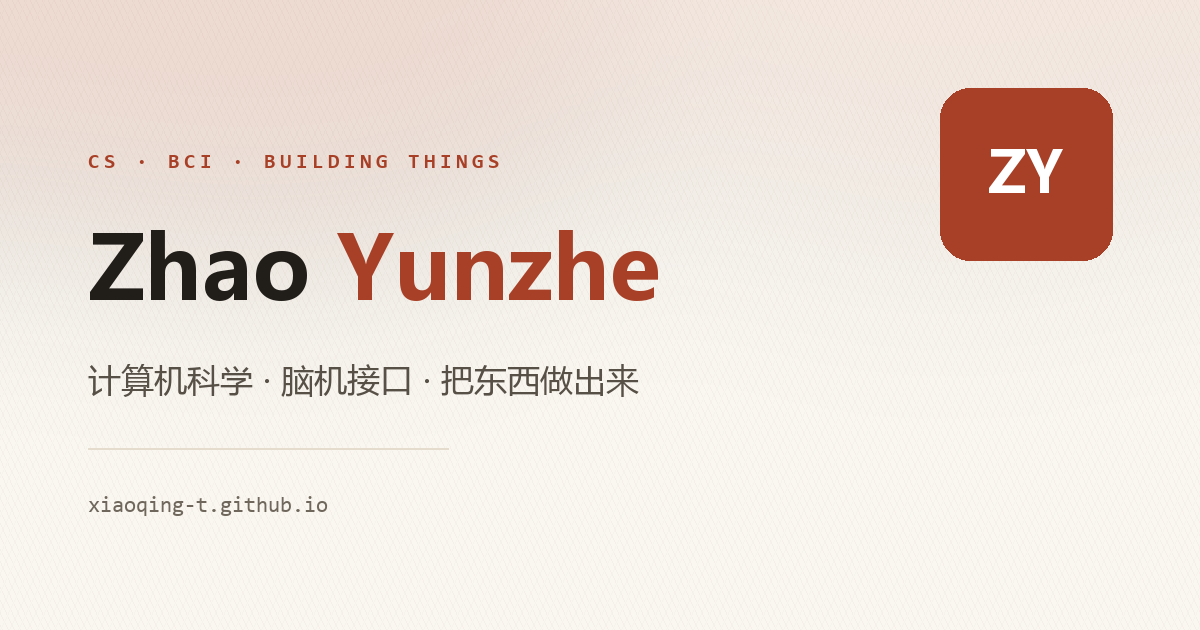
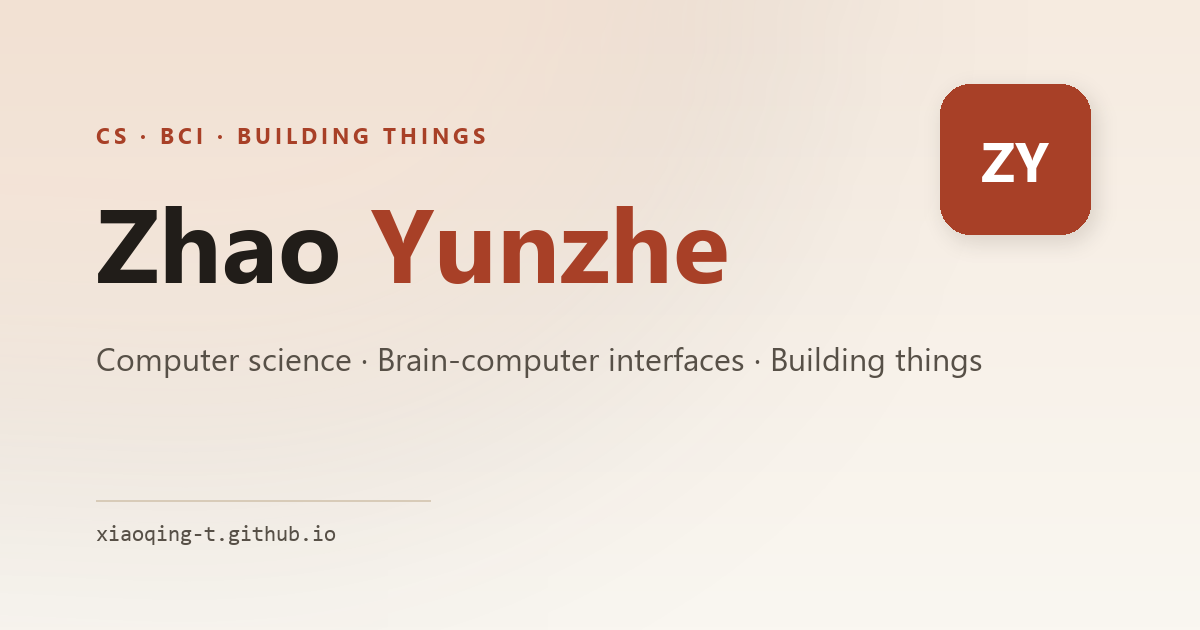
feat: 重做分享卡并为每篇笔记生成 OG 图

diff --git a/index.html b/index.html
@@ -40,7 +40,7 @@
     <meta property="og:image:height" content="630" />
     <meta
       property="og:image:alt"
-      content="Zhao Yunzhe — 计算机科学 · 脑机接口 · 把东西做出来"
+      content="Zhao Yunzhe — Computer science · Brain-computer interfaces · Building things"
     />
     <meta name="twitter:card" content="summary_large_image" />
     <meta name="twitter:title" content="Zhao Yunzhe · 个人主页" />

diff --git a/scripts/make-og.py b/scripts/make-og.py
@@ -1,0 +1,231 @@
+"""Generate the homepage and per-note Open Graph cards (1200x630).
+
+Usage: python scripts/make-og.py
+Requires Pillow. Outputs public/og-image.png and public/og/note-*.png.
+"""
+
+import json
+import re
+from pathlib import Path
+
+from PIL import Image, ImageDraw, ImageFilter, ImageFont, ImageOps
+
+ROOT = Path(__file__).resolve().parent.parent
+PUBLIC = ROOT / "public"
+NOTES = PUBLIC / "notes.json"
+
+W, H = 1200, 630
+INK = (33, 29, 25)
+RUST = (168, 64, 39)
+SOFT = (87, 80, 71)
+LINE = (216, 203, 184)
+WHITE = (255, 255, 255)
+
+FONT_DIR = Path("C:/Windows/Fonts")
+SEGOE = FONT_DIR / "segoeui.ttf"
+SEGOE_BOLD = FONT_DIR / "segoeuib.ttf"
+CONSOLAS = FONT_DIR / "consola.ttf"
+CJK_BOLD = FONT_DIR / "msyhbd.ttc"
+
+BOOK_LABELS = {
+    "engineering": "ENGINEERING",
+    "virtualization": "SYSTEM VIRTUALIZATION",
+    "ml": "MACHINE LEARNING",
+    "nlp": "NATURAL LANGUAGE PROCESSING",
+    "theory": "COMPUTING THEORY",
+}
+
+CLOSING = set("，。：、；！？）」』】%")
+OPENING = set("（「『【")
+TOKEN = re.compile(r"[A-Za-z0-9][A-Za-z0-9./+:_-]*|\s+|.", re.S)
+
+
+def font(path, size, index=0):
+    return ImageFont.truetype(str(path), size, index=index)
+
+
+def make_background():
+    gradient = Image.linear_gradient("L").resize((W, H))
+    bg = ImageOps.colorize(gradient, black=(246, 235, 224), white=(250, 247, 241))
+
+    glow = Image.new("RGBA", (W, H), (0, 0, 0, 0))
+    gd = ImageDraw.Draw(glow)
+    gd.ellipse((-350, -420, 760, 480), fill=(214, 150, 115, 30))
+    glow = glow.filter(ImageFilter.GaussianBlur(130))
+    bg = Image.alpha_composite(bg.convert("RGBA"), glow)
+    return bg
+
+
+def draw_tracked(draw, xy, text, fnt, fill, tracking=4):
+    x, y = xy
+    for ch in text:
+        draw.text((x, y), ch, font=fnt, fill=fill)
+        x += draw.textlength(ch, font=fnt) + tracking
+
+
+def draw_mark(img, x, y, size, font_size):
+    shadow = Image.new("RGBA", img.size, (0, 0, 0, 0))
+    sd = ImageDraw.Draw(shadow)
+    sd.rounded_rectangle(
+        (x + 5, y + 7, x + size + 5, y + size + 7),
+        radius=int(size * 0.2),
+        fill=(80, 60, 40, 38),
+    )
+    shadow = shadow.filter(ImageFilter.GaussianBlur(10))
+    img.alpha_composite(shadow)
+
+    draw = ImageDraw.Draw(img)
+    draw.rounded_rectangle(
+        (x, y, x + size, y + size),
+        radius=int(size * 0.2),
+        fill=RUST,
+    )
+    draw.text(
+        (x + size / 2, y + size / 2),
+        "ZY",
+        font=font(SEGOE_BOLD, font_size),
+        fill=WHITE,
+        anchor="mm",
+    )
+
+
+def wrap(text, fnt, max_width, draw):
+    tokens = TOKEN.findall(text)
+    lines = []
+    line = ""
+    for token in tokens:
+        if token.isspace():
+            if line and not line.endswith(" "):
+                line += " "
+            continue
+
+        candidate = line + token
+        if not line.strip() or draw.textlength(candidate.rstrip(), font=fnt) <= max_width:
+            line = candidate
+            continue
+
+        if token in CLOSING:
+            line = candidate
+            lines.append(line.rstrip())
+            line = ""
+            continue
+
+        trimmed = line.rstrip()
+        while trimmed and trimmed[-1] in OPENING:
+            token = trimmed[-1] + token
+            trimmed = trimmed[:-1]
+        lines.append(trimmed)
+        line = token
+
+    if line.strip():
+        lines.append(line.rstrip())
+    return [item.strip() for item in lines if item.strip()]
+
+
+def wrap_balanced(text, fnt, max_width, draw):
+    lines = wrap(text, fnt, max_width, draw)
+    target = len(lines)
+    if target <= 1:
+        return lines
+
+    best = lines
+    lo, hi = 1, max_width
+    while lo <= hi:
+        mid = (lo + hi) // 2
+        candidate = wrap(text, fnt, mid, draw)
+        if len(candidate) == target:
+            best = candidate
+            hi = mid - 1
+        else:
+            lo = mid + 1
+    return best
+
+
+def split_title(title):
+    for sep in ("：", ":"):
+        if sep in title:
+            left, right = title.split(sep, 1)
+            if len(left) <= 16 and right.strip():
+                return [left + sep, right.strip()]
+    return None
+
+
+def fit_title(title, draw):
+    parts = split_title(title)
+    for size in (70, 64, 58, 52):
+        fnt = font(CJK_BOLD, size)
+        if parts:
+            lines = []
+            for part in parts:
+                lines.extend(wrap_balanced(part, fnt, 860, draw))
+        else:
+            lines = wrap_balanced(title, fnt, 860, draw)
+        if len(lines) <= 3:
+            return fnt, lines, size
+    return fnt, lines, size
+
+
+def build_main(base):
+    img = base.copy()
+    draw = ImageDraw.Draw(img)
+
+    draw_tracked(draw, (96, 120), "CS · BCI · BUILDING THINGS", font(SEGOE_BOLD, 22), RUST, tracking=4)
+
+    name_font = font(SEGOE_BOLD, 104)
+    draw.text((96, 170), "Zhao ", font=name_font, fill=INK)
+    offset = draw.textlength("Zhao ", font=name_font)
+    draw.text((96 + offset, 170), "Yunzhe", font=name_font, fill=RUST)
+
+    subtitle = "Computer science · Brain-computer interfaces · Building things"
+    sub_size = 32
+    while sub_size > 22 and draw.textlength(subtitle, font=font(SEGOE, sub_size)) > 1000:
+        sub_size -= 1
+    draw.text((96, 336), subtitle, font=font(SEGOE, sub_size), fill=SOFT)
+
+    draw.line((96, 500, 430, 500), fill=LINE, width=2)
+    draw.text((96, 524), "xiaoqing-t.github.io", font=font(CONSOLAS, 22), fill=SOFT)
+
+    draw_mark(img, 940, 84, 150, 56)
+    return img
+
+
+def build_note(base, title, kicker):
+    img = base.copy()
+    draw = ImageDraw.Draw(img)
+
+    draw_tracked(draw, (96, 96), kicker, font(SEGOE_BOLD, 21), RUST, tracking=4)
+
+    title_font, lines, size = fit_title(title, draw)
+    line_height = int(size * 1.3)
+    for index, line in enumerate(lines):
+        draw.text((96, 168 + index * line_height), line, font=title_font, fill=INK)
+
+    draw.line((96, 506, 430, 506), fill=LINE, width=2)
+    draw.text((96, 528), "xiaoqing-t.github.io", font=font(CONSOLAS, 22), fill=SOFT)
+
+    draw_mark(img, 1020, 92, 96, 38)
+    return img
+
+
+def main():
+    base = make_background()
+    data = json.loads(NOTES.read_text(encoding="utf-8"))
+
+    build_main(base).convert("RGB").save(PUBLIC / "og-image.png", optimize=True)
+
+    out_dir = PUBLIC / "og"
+    out_dir.mkdir(exist_ok=True)
+    count = 0
+    for book in data["books"]:
+        label = BOOK_LABELS[book["id"]]
+        for index, note in enumerate(book["notes"], start=1):
+            kicker = f"{label} · NOTE {index:02d}"
+            card = build_note(base, note["title"], kicker)
+            card.convert("RGB").save(out_dir / note["href"].replace(".html", ".png"), optimize=True)
+            count += 1
+
+    print(f"[og] 写入 og-image.png + {count} 张笔记图（public/og/）")
+
+
+if __name__ == "__main__":
+    main()

diff --git a/README.md b/README.md
@@ -26,6 +26,8 @@
 | `public/en/` | 英文一页：定位、代表工作、研究与 CV 摘要；导航里的 `EN` 进来 |
 | `public/uses.html` | **在用什么**：机器、Obsidian 工作流、网站栈、视频流程、字体配色；联系区的「在用什么」进来 |
 | `public/demo/` | **自动机模拟器**：正则 → NFA → DFA 单步运行；`pda.html` 是 PDA / DPDA 模式，栈与分支可视化；入口在 DFA/NFA、正则、PDA、DPDA 四篇笔记 |
+| `public/og-image.png` | 首页分享卡（1200×630，英文） |
+| `public/og/` | 21 篇笔记各自的分享卡，由 `npm run sync:og` 从 `notes.json` 生成 |
 | **`React重构说明.md`** | **讲解 + 增删改查手册** ← 想改东西先看它 |
 
 ## 命令
@@ -37,6 +39,7 @@ npm run build    # 类型检查 + 打包到 dist/
 npm run preview  # 本地预览打包结果
 npm run sync:now # 从笔记仓库的活跃线白名单生成 public/now.json（每周六复盘后）
 npm run sync:resume # 从中文简历生成英文简历（改完中文简历跑）
+npm run sync:og # 从 notes.json 重新生成首页与笔记分享卡（需要 Pillow）
 npm run test:automata # 自动机核心的单元测试（node --test）
 npm run test:pda # PDA / DPDA 模拟核心的单元测试
 ```
@@ -62,6 +65,10 @@ npm run test:pda # PDA / DPDA 模拟核心的单元测试
 | 改版面、配色 | `public/resume.css`（两页共用） |
 
 `npm run build` 会先跑同步：中文改过但英文没补译时直接失败，不会把半中半英的页面发上线。译文对照表按中文原文索引，所以中文句子一改就会被当成新句子要求翻译——这是有意的，避免英文悄悄引用旧信息。
+
+## 分享卡（OG 图）
+
+首页和每篇笔记各有一张 1200×630 的分享卡：`public/og-image.png` 和 `public/og/note-*.png`。改标题、加笔记之后跑 `npm run sync:og`，脚本从 `public/notes.json` 重新生成全部卡片（需要本机有 Pillow）。构建不跑这个脚本，CI 用的是仓库里已提交的图；新增笔记漏图时 `note-meta.mjs` 会警告并退回首页卡，不会让页面报错。
 
 ## 笔记怎么组织（2026-11）
 
